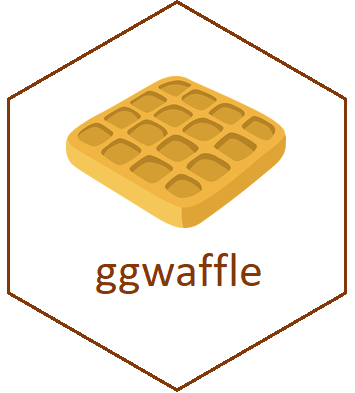
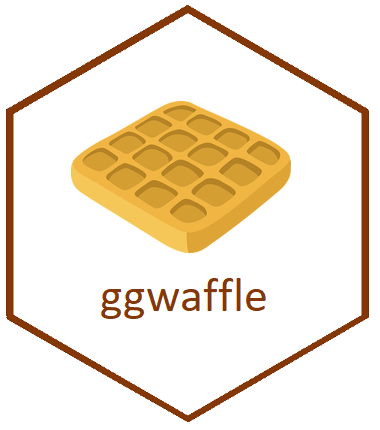
v0.2.0 aes_d validation

diff --git a/README.md b/README.md
@@ -1,4 +1,4 @@
-# ggwaffle <img src="man/figures/sticker.png" align="right" />
+# ggwaffle <img src="man/figures/sticker.png" align="right" width=250/>
 
 Create waffle visualisations in ggplot2-friendly way.
 
@@ -25,7 +25,7 @@ ggwaffle also introduces a column mapping function, `aes_d`. At this stage I hav
 `aes_d` is obviously coined from ggplot's `aes` function and has a very similar idea. Here we are mapping column names to feed into a function so they can be renamed for used appropriately.
 ```r
 library(ggwaffle)
-waffle_data = waffle_iron(mpg, aes_d(group = class))
+waffle_data <- waffle_iron(mpg, aes_d(group = class))
 
 ggplot(waffle_data, aes(x, y, fill = group)) + 
   geom_waffle()
@@ -38,7 +38,7 @@ Using ``coord_equal`` is recommended to make the size of the blocks even in all 
 
 ```r
 iris$Species <- as.character(iris$Species)
-waffle_data = waffle_iron(iris, aes_d(group = Species))
+waffle_data <- waffle_iron(iris, aes_d(group = Species))
 
 ggplot(waffle_data, aes(x, y, fill = group)) + 
   geom_waffle() + 

diff --git a/NEWS.md b/NEWS.md
@@ -1,0 +1,8 @@
+# ggwaffle 0.2.0
+
+* Fixed bug in `aes_d` that would break future work with multiple columns
+* Added column validation to aes_d
+
+# ggwaffle 0.1.0
+
+* Created ggwaffle package
